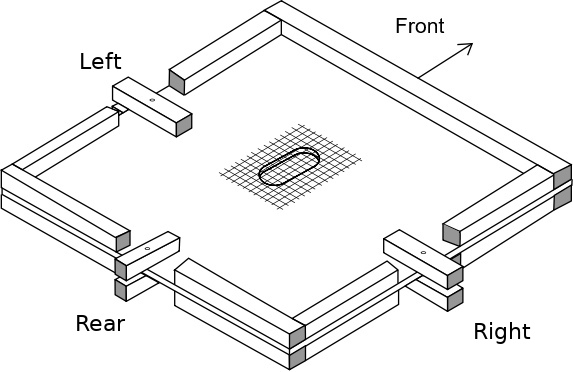
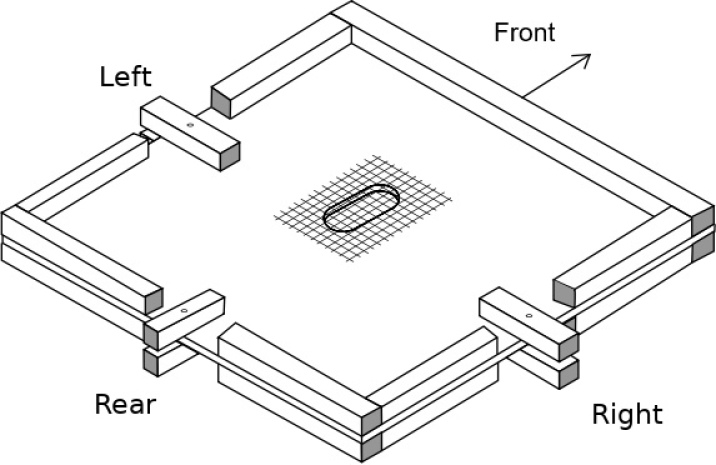
Update horsley board. Tidy up.

diff --git a/index.html b/index.html
@@ -216,6 +216,7 @@ Can keep swapping boxes if repeated swarm signs
 5. Day 4-5: Close top-left, open bottom-left and top-right.
 6. Day 9-10: Close bottom-left and top-right, open bottom-right, and top-rear.
 7. Day 14-15: Close bottom-right.
+8. Leave undisturbed to allow a new queen to emerge.
 
 
 Notes:
@@ -228,11 +229,26 @@ multiple (easy), vertical, increase optional, partial disruption
 
 <section data-markdown data-separator-notes="^Notes:">
 ## The Horsley Board
-(Demo board)
 
+![Horsley Board QE open](img/horsley-closed.png "Horsley Board I")
+![Horsley Board QE closed](img/horsley-open.png "Horsley Board II")
+
+</section>
+
+
+<section data-markdown data-separator-notes="^Notes:">
+## The Horsley Method
+
+1. Move the brood box to one side.
+2. Place a new brood box on the floor containing drawn comb.
+3. Transfer the Queen and 1-3 frames capped brood into it.
+4. Add the Horsley board, entrance to the rear.
+5. Close the entrance, opening the quen excluder and replace the original box.
+6. After 3-4 days, open the entrance, closing the queen excluder.
+7. Leave undisturbed to allow a new queen to emerge.
 
 Notes:
-Demaree/Snelgrove combined?
+Demaree but with later separation
 1 extra visit (no need to open hive)
 </section>
 
@@ -274,19 +290,30 @@ Notes:
 </section>
 
 <section data-markdown data-separator-notes="^Notes:">
-## Extra Tips
+## Tips
 
-* Mix &amp; Match!
+* Be prepared
+* Mix &amp; Match
 * Queen Clipping
 * Feeding
 * Drawn Comb
-* Lifecycle Ready Reckoner
 
 Notes:
-* Start with demaree, switch to a solid floor
+* Have equipment ready, inspect hives etc
+* M-M e.g. Start with demaree, switch to a solid floor (cheap horsley)
 * Queen clipping allows 14 day inspections
 * Feeding if using foundation is mandatory
-* Drawn comb is the most valuable thing in an apiary
+* Drawn comb is the most valuable thing in the apiary
+</section>
+
+
+<section data-markdown data-separator-notes="^Notes:">
+## Lifecycle Ready Reckoner
+
+![Lifecycle Reckoner](img/lifecycle.png "Lifecycle Reckoner")
+
+(Download from https://www.edinburghbeekeepers.org.uk)
+
 </section>
 
 <section data-markdown data-separator-notes="^Notes:">

diff --git a/css/theme/solarized_improved.css b/css/theme/solarized_improved.css
@@ -4,18 +4,12 @@
 .reveal section img {
 border: 0px;
 box-shadow: 0 0 0 0;
-width: 60%;
-}
-
-/* Smaller font for list items in table key */
-.list-key {
-font-size: 60% !important;
 }
 
 /* Large font */
  .reveal {
-   font-size: 38px; 
-} 
+   font-size: 38px;
+}
 
 /* Smaller table font */
 .reveal table {
